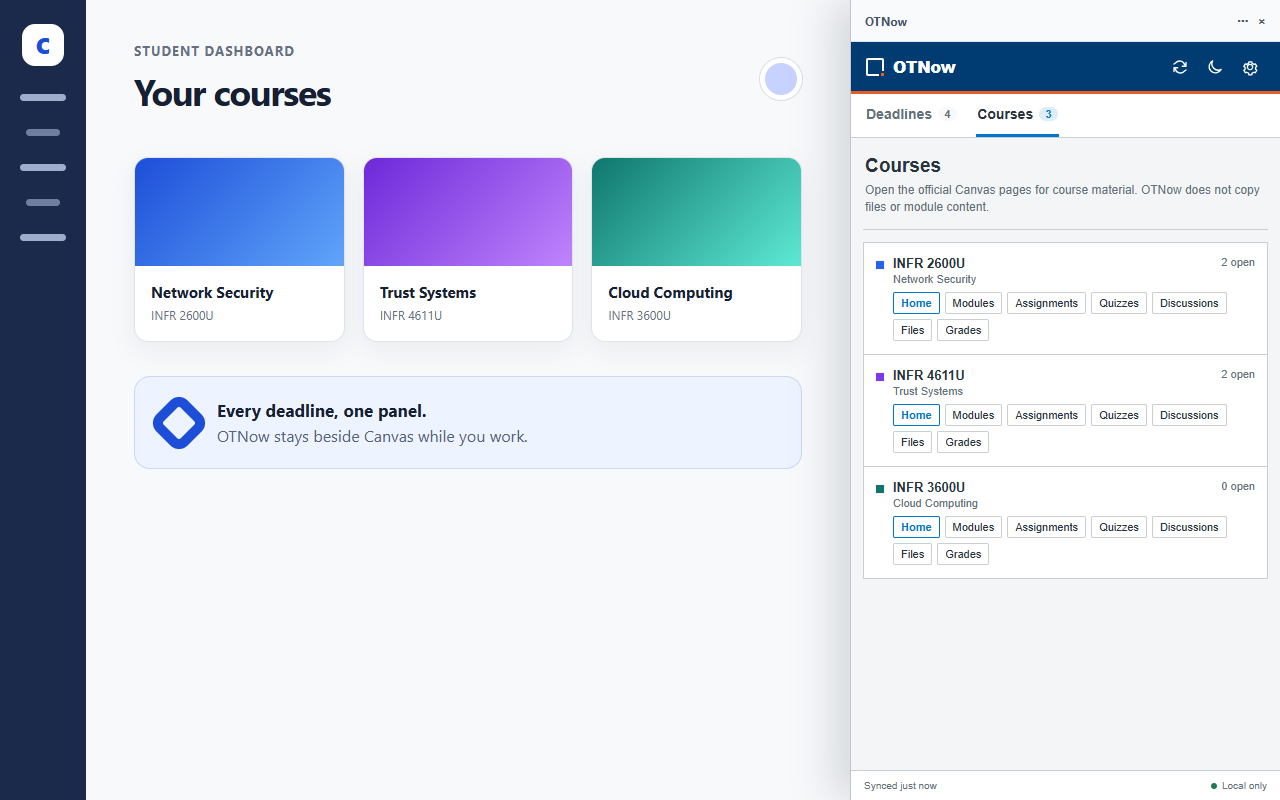
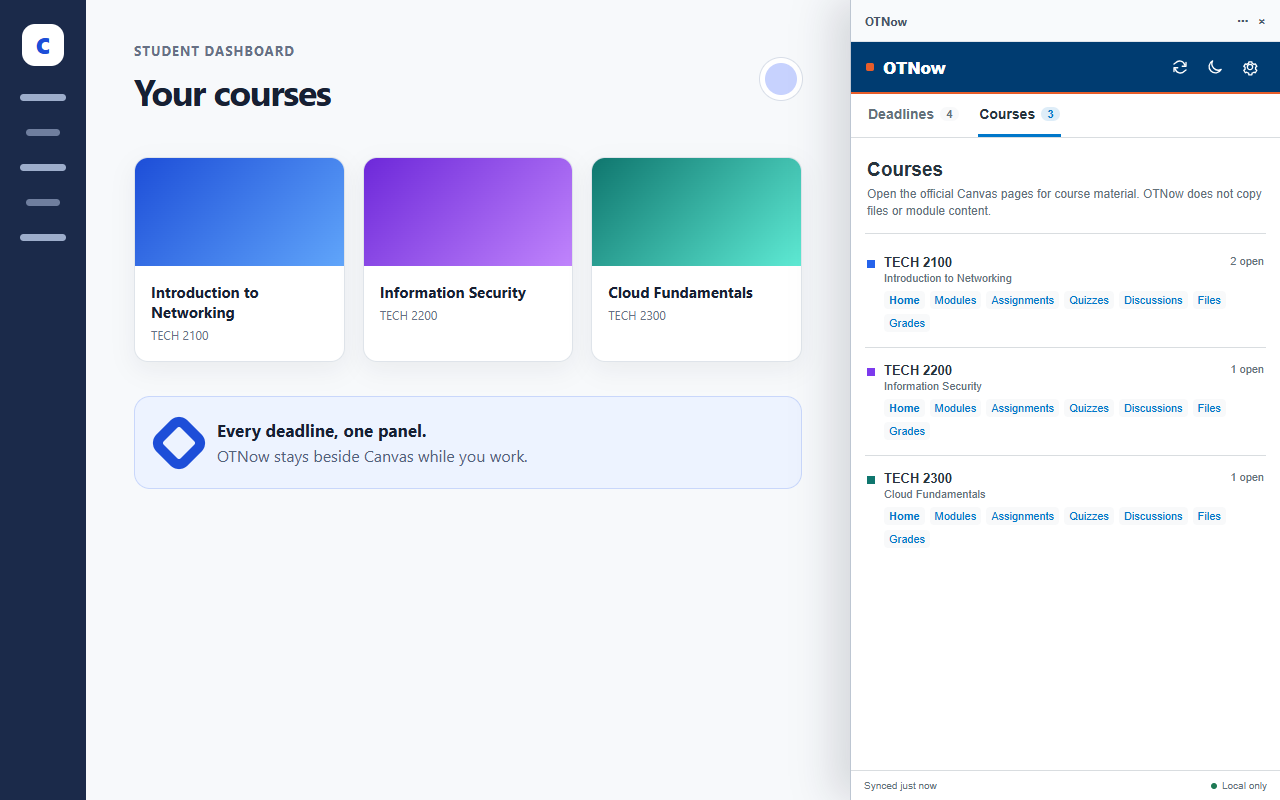
style: blend OTNow into Canvas

diff --git a/panel/panel.css b/panel/panel.css
@@ -3,13 +3,13 @@
   --navy: #003c71;
   --blue: #0077ca;
   --orange: #e75d2a;
-  --bg: #f4f5f6;
+  --bg: #ffffff;
   --surface: #ffffff;
   --surface-subtle: #f8f9fa;
   --text: #27343d;
   --muted: #64717a;
-  --line: #c9cfd3;
-  --line-strong: #9ea8ae;
+  --line: #d9dde0;
+  --line-strong: #b8c0c5;
   --green: #1f7a55;
   --red: #c0362c;
   --amber: #8a5600;
@@ -72,7 +72,7 @@ button { color: inherit; }
   justify-content: space-between;
   height: 52px;
   padding: 0 13px 0 15px;
-  border-bottom: 3px solid var(--orange);
+  border-bottom: 2px solid var(--orange);
   background: var(--navy);
   color: white;
 }
@@ -87,22 +87,14 @@ button { color: inherit; }
 }
 
 .brand-mark {
-  position: relative;
-  width: 18px;
-  height: 18px;
-  border: 2px solid white;
+  width: 8px;
+  height: 8px;
+  border: 0;
   border-radius: 2px;
-}
-
-.brand-mark span {
-  position: absolute;
-  right: -4px;
-  bottom: -4px;
-  width: 7px;
-  height: 7px;
-  border: 2px solid var(--navy);
   background: var(--orange);
 }
+
+.brand-mark span { display: none; }
 
 .top-actions { display: flex; gap: 1px; }
 
@@ -136,13 +128,13 @@ button { color: inherit; }
   line-height: 1.4;
 }
 
-main { padding: 0 12px 58px; }
+main { padding: 0 14px 58px; }
 
 .view-tabs {
   display: flex;
   gap: 18px;
-  margin: 0 -12px 14px;
-  padding: 0 14px;
+  margin: 0 -14px 18px;
+  padding: 0 16px;
   border-bottom: 1px solid var(--line);
   background: var(--surface);
 }
@@ -170,7 +162,7 @@ main { padding: 0 12px 58px; }
   align-items: center;
   justify-content: space-between;
   gap: 16px;
-  padding: 3px 2px 14px;
+  padding: 1px 1px 16px;
   border-bottom: 1px solid var(--line);
 }
 
@@ -182,16 +174,15 @@ main { padding: 0 12px 58px; }
 .overview-copy p { overflow: hidden; text-overflow: ellipsis; white-space: nowrap; }
 
 .overview-status {
-  display: grid;
-  grid-template-columns: auto auto;
-  gap: 1px 5px;
+  display: flex;
+  align-items: baseline;
+  gap: 4px;
   flex: 0 0 auto;
-  padding-left: 14px;
-  border-left: 1px solid var(--line);
+  padding-left: 10px;
   font-size: 11px;
 }
 
-.overview-status strong { text-align: right; }
+.overview-status strong:not(:first-child) { margin-left: 7px; }
 .overview-status span { color: var(--muted); }
 .overview-status .is-danger { color: var(--red); }
 .overview-status .is-warning { color: var(--amber); }
@@ -200,17 +191,20 @@ main { padding: 0 12px 58px; }
   display: grid;
   grid-template-columns: minmax(0, 1.35fr) minmax(0, 1fr) minmax(0, .85fr);
   gap: 8px;
-  padding: 12px 0 8px;
+  margin-top: 12px;
+  padding: 10px;
+  border-radius: 8px;
+  background: var(--surface-subtle);
 }
 
 .control { min-width: 0; }
-.control-label { display: block; margin-bottom: 4px; color: var(--muted); font-size: 10px; font-weight: 700; letter-spacing: .04em; text-transform: uppercase; }
+.control-label { display: block; margin-bottom: 4px; color: var(--muted); font-size: 11px; font-weight: 700; }
 .control select {
   width: 100%;
   height: 34px;
   padding: 0 24px 0 8px;
-  border: 1px solid var(--line-strong);
-  border-radius: 2px;
+  border: 1px solid var(--line);
+  border-radius: 6px;
   background: var(--surface);
   color: var(--text);
   font-size: 12px;
@@ -218,14 +212,14 @@ main { padding: 0 12px 58px; }
 
 .control select:focus { border-color: var(--blue); outline: 2px solid color-mix(in srgb, var(--blue) 22%, transparent); }
 
-.source-note { margin: 1px 0 14px; color: var(--muted); font-size: 10px; line-height: 1.35; }
+.source-note { margin: 7px 2px 17px; color: var(--muted); font-size: 10px; line-height: 1.4; }
 
-.group { margin-top: 17px; }
+.group { margin-top: 20px; }
 .group:first-of-type { margin-top: 5px; }
-.group-heading { display: flex; align-items: center; justify-content: space-between; margin: 0; padding: 0 2px 6px; border-bottom: 2px solid var(--line-strong); }
-.group-heading h2 { margin: 0; font-size: 12px; font-weight: 800; letter-spacing: .035em; text-transform: uppercase; }
+.group-heading { display: flex; align-items: center; justify-content: space-between; margin: 0; padding: 0 2px 7px; border-bottom: 1px solid var(--line); }
+.group-heading h2 { margin: 0; font-size: 14px; font-weight: 700; }
 .group-heading span { color: var(--muted); font-size: 11px; }
-.items { border-bottom: 1px solid var(--line); }
+.items { background: var(--surface); }
 
 .item {
   position: relative;
@@ -233,14 +227,15 @@ main { padding: 0 12px 58px; }
   grid-template-columns: 24px minmax(0, 1fr) auto;
   gap: 8px;
   align-items: center;
-  min-height: 68px;
-  padding: 9px 2px 9px 7px;
+  min-height: 67px;
+  padding: 10px 3px;
   border-top: 1px solid var(--line);
-  background: var(--surface);
+  background: transparent;
 }
 
 .item:first-child { border-top: 0; }
-.item::before { content: ""; position: absolute; inset: 0 auto 0 0; width: 3px; background: var(--course-color); }
+.item::before { display: none; }
+.item:hover { background: var(--surface-subtle); }
 .item.is-overdue { background: color-mix(in srgb, var(--red) 4%, var(--surface)); }
 .item.is-complete { opacity: .65; }
 
@@ -248,7 +243,7 @@ main { padding: 0 12px 58px; }
   width: 18px;
   height: 18px;
   border: 1.5px solid var(--line-strong);
-  border-radius: 2px;
+  border-radius: 4px;
   background: var(--surface);
   cursor: pointer;
 }
@@ -257,7 +252,8 @@ main { padding: 0 12px 58px; }
 .check.checked::after { content: ""; display: block; width: 7px; height: 4px; margin: 4px 0 0 4px; border: solid white; border-width: 0 0 2px 2px; transform: rotate(-45deg); }
 .item-main { min-width: 0; }
 .item-meta { display: flex; align-items: center; gap: 7px; margin-bottom: 3px; color: var(--muted); font-size: 10px; font-weight: 700; text-transform: uppercase; }
-.course-code { max-width: 150px; overflow: hidden; color: var(--course-color); text-overflow: ellipsis; white-space: nowrap; }
+.course-code { display: inline-flex; align-items: center; max-width: 150px; overflow: hidden; color: var(--course-color); text-overflow: ellipsis; white-space: nowrap; }
+.course-code::before { content: ""; flex: 0 0 auto; width: 6px; height: 6px; margin-right: 5px; border-radius: 50%; background: currentColor; }
 .item-type::before { content: "·"; margin-right: 7px; color: var(--line-strong); }
 .item-title { display: block; overflow: hidden; color: var(--text); font-size: 13px; font-weight: 700; line-height: 1.3; text-decoration: none; text-overflow: ellipsis; }
 .item-title:hover { color: var(--blue); text-decoration: underline; }
@@ -270,8 +266,8 @@ main { padding: 0 12px 58px; }
 
 .course-directory { padding-bottom: 10px; }
 .section-intro { padding: 3px 2px 14px; border-bottom: 1px solid var(--line); }
-.course-list { margin-top: 12px; border: 1px solid var(--line); background: var(--surface); }
-.course-row { display: grid; grid-template-columns: minmax(0, 1fr) auto; gap: 7px 12px; padding: 13px 12px; border-top: 1px solid var(--line); }
+.course-list { margin-top: 6px; background: var(--surface); }
+.course-row { display: grid; grid-template-columns: minmax(0, 1fr) auto; gap: 7px 12px; padding: 15px 2px; border-top: 1px solid var(--line); }
 .course-row:first-child { border-top: 0; }
 .course-identity { display: flex; align-items: flex-start; gap: 9px; min-width: 0; }
 .course-dot { flex: 0 0 auto; width: 8px; height: 8px; margin-top: 5px; background: var(--course-color); }
@@ -282,15 +278,15 @@ main { padding: 0 12px 58px; }
 .course-name span { margin-top: 2px; color: var(--muted); font-size: 11px; }
 .course-open-count { color: var(--muted); font-size: 11px; white-space: nowrap; }
 .course-links { grid-column: 1 / -1; display: flex; flex-wrap: wrap; gap: 5px; padding-left: 17px; }
-.course-link { padding: 4px 7px; border: 1px solid var(--line); border-radius: 2px; color: var(--text); font-size: 11px; text-decoration: none; }
-.course-link:hover { border-color: var(--blue); color: var(--blue); }
-.course-link.primary { border-color: var(--blue); color: var(--blue); font-weight: 700; }
+.course-link { padding: 3px 5px; border: 0; border-radius: 4px; background: var(--surface-subtle); color: var(--blue); font-size: 11px; text-decoration: none; }
+.course-link:hover { background: color-mix(in srgb, var(--blue) 10%, var(--surface)); text-decoration: underline; }
+.course-link.primary { font-weight: 700; }
 
 .state-screen { display: grid; min-height: 58vh; place-content: center; padding: 30px 18px; text-align: center; }
-.state-icon { display: grid; width: 44px; height: 44px; margin: 0 auto 14px; place-items: center; border: 1px solid var(--blue); border-radius: 2px; background: var(--surface); color: var(--blue); font-size: 14px; font-weight: 800; }
+.state-icon { display: grid; width: 44px; height: 44px; margin: 0 auto 14px; place-items: center; border: 1px solid var(--line); border-radius: 8px; background: var(--surface-subtle); color: var(--blue); font-size: 14px; font-weight: 800; }
 .state-screen h1 { margin: 0 0 8px; font-size: 19px; }
 .state-screen p { max-width: 280px; margin: 0 auto 18px; color: var(--muted); line-height: 1.5; }
-.primary-button, .secondary-button { padding: 8px 12px; border-radius: 2px; font-weight: 700; cursor: pointer; }
+.primary-button, .secondary-button { padding: 8px 12px; border-radius: 6px; font-weight: 700; cursor: pointer; }
 .primary-button { border: 1px solid var(--blue); background: var(--blue); color: white; }
 .secondary-button { margin-left: 6px; border: 1px solid var(--line-strong); background: var(--surface); }
 .empty { padding: 35px 12px; color: var(--muted); text-align: center; }

diff --git a/docs/demo-panel.html b/docs/demo-panel.html
@@ -29,15 +29,15 @@
       const now = Date.now();
       const iso = (hours) => new Date(now + hours * 60 * 60 * 1000).toISOString();
       const courses = [
-        { id: "1", code: "INFR 2600U", name: "Network Security", color: "#2563eb" },
-        { id: "2", code: "INFR 4611U", name: "Trust Systems", color: "#7c3aed" },
-        { id: "3", code: "INFR 3600U", name: "Cloud Computing", color: "#0f766e" },
+        { id: "1", code: "TECH 2100", name: "Introduction to Networking", color: "#2563eb" },
+        { id: "2", code: "TECH 2200", name: "Information Security", color: "#7c3aed" },
+        { id: "3", code: "TECH 2300", name: "Cloud Fundamentals", color: "#0f766e" },
       ];
       const items = [
-        { id: "assignment:1", courseId: "1", courseCode: "INFR 2600U", courseName: "Network Security", color: "#2563eb", title: "Firewall policy analysis", type: "assignment", dueAt: iso(-2), url: "#", status: "open", submitted: false, canvasComplete: false, manuallyComplete: false, moved: null },
-        { id: "quiz:2", courseId: "2", courseCode: "INFR 4611U", courseName: "Trust Systems", color: "#7c3aed", title: "Week 3 trust models quiz", type: "quiz", dueAt: iso(6), url: "#", status: "open", submitted: false, canvasComplete: false, manuallyComplete: false, moved: null },
-        { id: "discussion:3", courseId: "1", courseCode: "INFR 2600U", courseName: "Network Security", color: "#2563eb", title: "Incident response discussion", type: "discussion", dueAt: iso(27), url: "#", status: "open", submitted: false, canvasComplete: false, manuallyComplete: false, moved: { from: iso(3), at: new Date().toISOString() } },
-        { id: "assignment:4", courseId: "2", courseCode: "INFR 4611U", courseName: "Trust Systems", color: "#7c3aed", title: "Designed alliance reflection", type: "assignment", dueAt: iso(72), url: "#", status: "open", submitted: false, canvasComplete: false, manuallyComplete: false, moved: null },
+        { id: "assignment:1", courseId: "1", courseCode: "TECH 2100", courseName: "Introduction to Networking", color: "#2563eb", title: "Network lab report", type: "assignment", dueAt: iso(-2), url: "#", status: "open", submitted: false, canvasComplete: false, manuallyComplete: false, moved: null },
+        { id: "quiz:2", courseId: "2", courseCode: "TECH 2200", courseName: "Information Security", color: "#7c3aed", title: "Security concepts quiz", type: "quiz", dueAt: iso(6), url: "#", status: "open", submitted: false, canvasComplete: false, manuallyComplete: false, moved: null },
+        { id: "discussion:3", courseId: "1", courseCode: "TECH 2100", courseName: "Introduction to Networking", color: "#2563eb", title: "Team project discussion", type: "discussion", dueAt: iso(27), url: "#", status: "open", submitted: false, canvasComplete: false, manuallyComplete: false, moved: { from: iso(3), at: new Date().toISOString() } },
+        { id: "assignment:4", courseId: "3", courseCode: "TECH 2300", courseName: "Cloud Fundamentals", color: "#0f766e", title: "Cloud setup checklist", type: "assignment", dueAt: iso(72), url: "#", status: "open", submitted: false, canvasComplete: false, manuallyComplete: false, moved: null },
       ];
       window.chrome = {
         runtime: {

diff --git a/docs/demo-host.html b/docs/demo-host.html
@@ -25,9 +25,9 @@
           <div class="avatar"></div>
         </header>
         <div class="course-grid">
-          <article><div class="cover blue"></div><h2>Network Security</h2><p>INFR 2600U</p></article>
-          <article><div class="cover purple"></div><h2>Trust Systems</h2><p>INFR 4611U</p></article>
-          <article><div class="cover teal"></div><h2>Cloud Computing</h2><p>INFR 3600U</p></article>
+          <article><div class="cover blue"></div><h2>Introduction to Networking</h2><p>TECH 2100</p></article>
+          <article><div class="cover purple"></div><h2>Information Security</h2><p>TECH 2200</p></article>
+          <article><div class="cover teal"></div><h2>Cloud Fundamentals</h2><p>TECH 2300</p></article>
         </div>
         <div class="callout">
           <span class="spark"></span>

diff --git a/src/view-model.js b/src/view-model.js
@@ -1,4 +1,3 @@
-import { TYPE_LABELS } from "./constants.js";
 import { bucketFor } from "./dates.js";
 
 export const DATE_GROUPS = [
@@ -11,12 +10,12 @@ export const DATE_GROUPS = [
 ];
 
 export const TYPE_GROUPS = [
-  ["assignment", TYPE_LABELS.assignment],
-  ["quiz", TYPE_LABELS.quiz],
-  ["discussion", TYPE_LABELS.discussion],
-  ["event", TYPE_LABELS.event],
-  ["note", TYPE_LABELS.note],
-  ["other", TYPE_LABELS.other],
+  ["assignment", "Assignments"],
+  ["quiz", "Quizzes"],
+  ["discussion", "Discussions"],
+  ["event", "Events"],
+  ["note", "Planner notes"],
+  ["other", "Other items"],
 ];
 
 export function groupPlannerItems(items, mode = "type", now = new Date()) {

diff --git a/docs/STORE_LISTING.md b/docs/STORE_LISTING.md
@@ -52,7 +52,7 @@ Publish `PRIVACY.md` at a stable public HTTPS URL before submission.
 - 1280×800 light screenshot — complete (`docs/media/otnow-store-1280x800.png`)
 - 1280×800 dark-mode screenshot — complete (`docs/media/otnow-dark-1280x800.png`)
 - 1280×800 course-directory screenshot — complete (`docs/media/otnow-courses-1280x800.png`)
-- Sanitized real-session screenshot with fictional courses and coursework — complete (`docs/media/otnow-real-ui-sanitized.png`)
+- Sanitized real-session screenshot with generic courses, coursework, and replacement banners — complete (`docs/media/otnow-real-ui-sanitized-v2.png`)
 - Optional 440×280 small promotional tile
 - Public privacy-policy URL
 - Public support URL

diff --git a/CHANGELOG.md b/CHANGELOG.md
@@ -1,5 +1,11 @@
 # Changelog
 
+## 0.4.1 — 2026-09-24
+
+- Softened the panel to blend with Canvas using open lists, lighter dividers, natural title casing, and restrained course-colour dots.
+- Replaced the outlined brand symbol and heavy row accents with subtler interface details.
+- Reworked sanitized screenshots with generic course names, generic coursework, and non-identifying course artwork.
+
 ## 0.4.0 — 2026-09-24
 
 - Reworked the panel into a compact, conventional utility layout without decorative dashboard cards.
